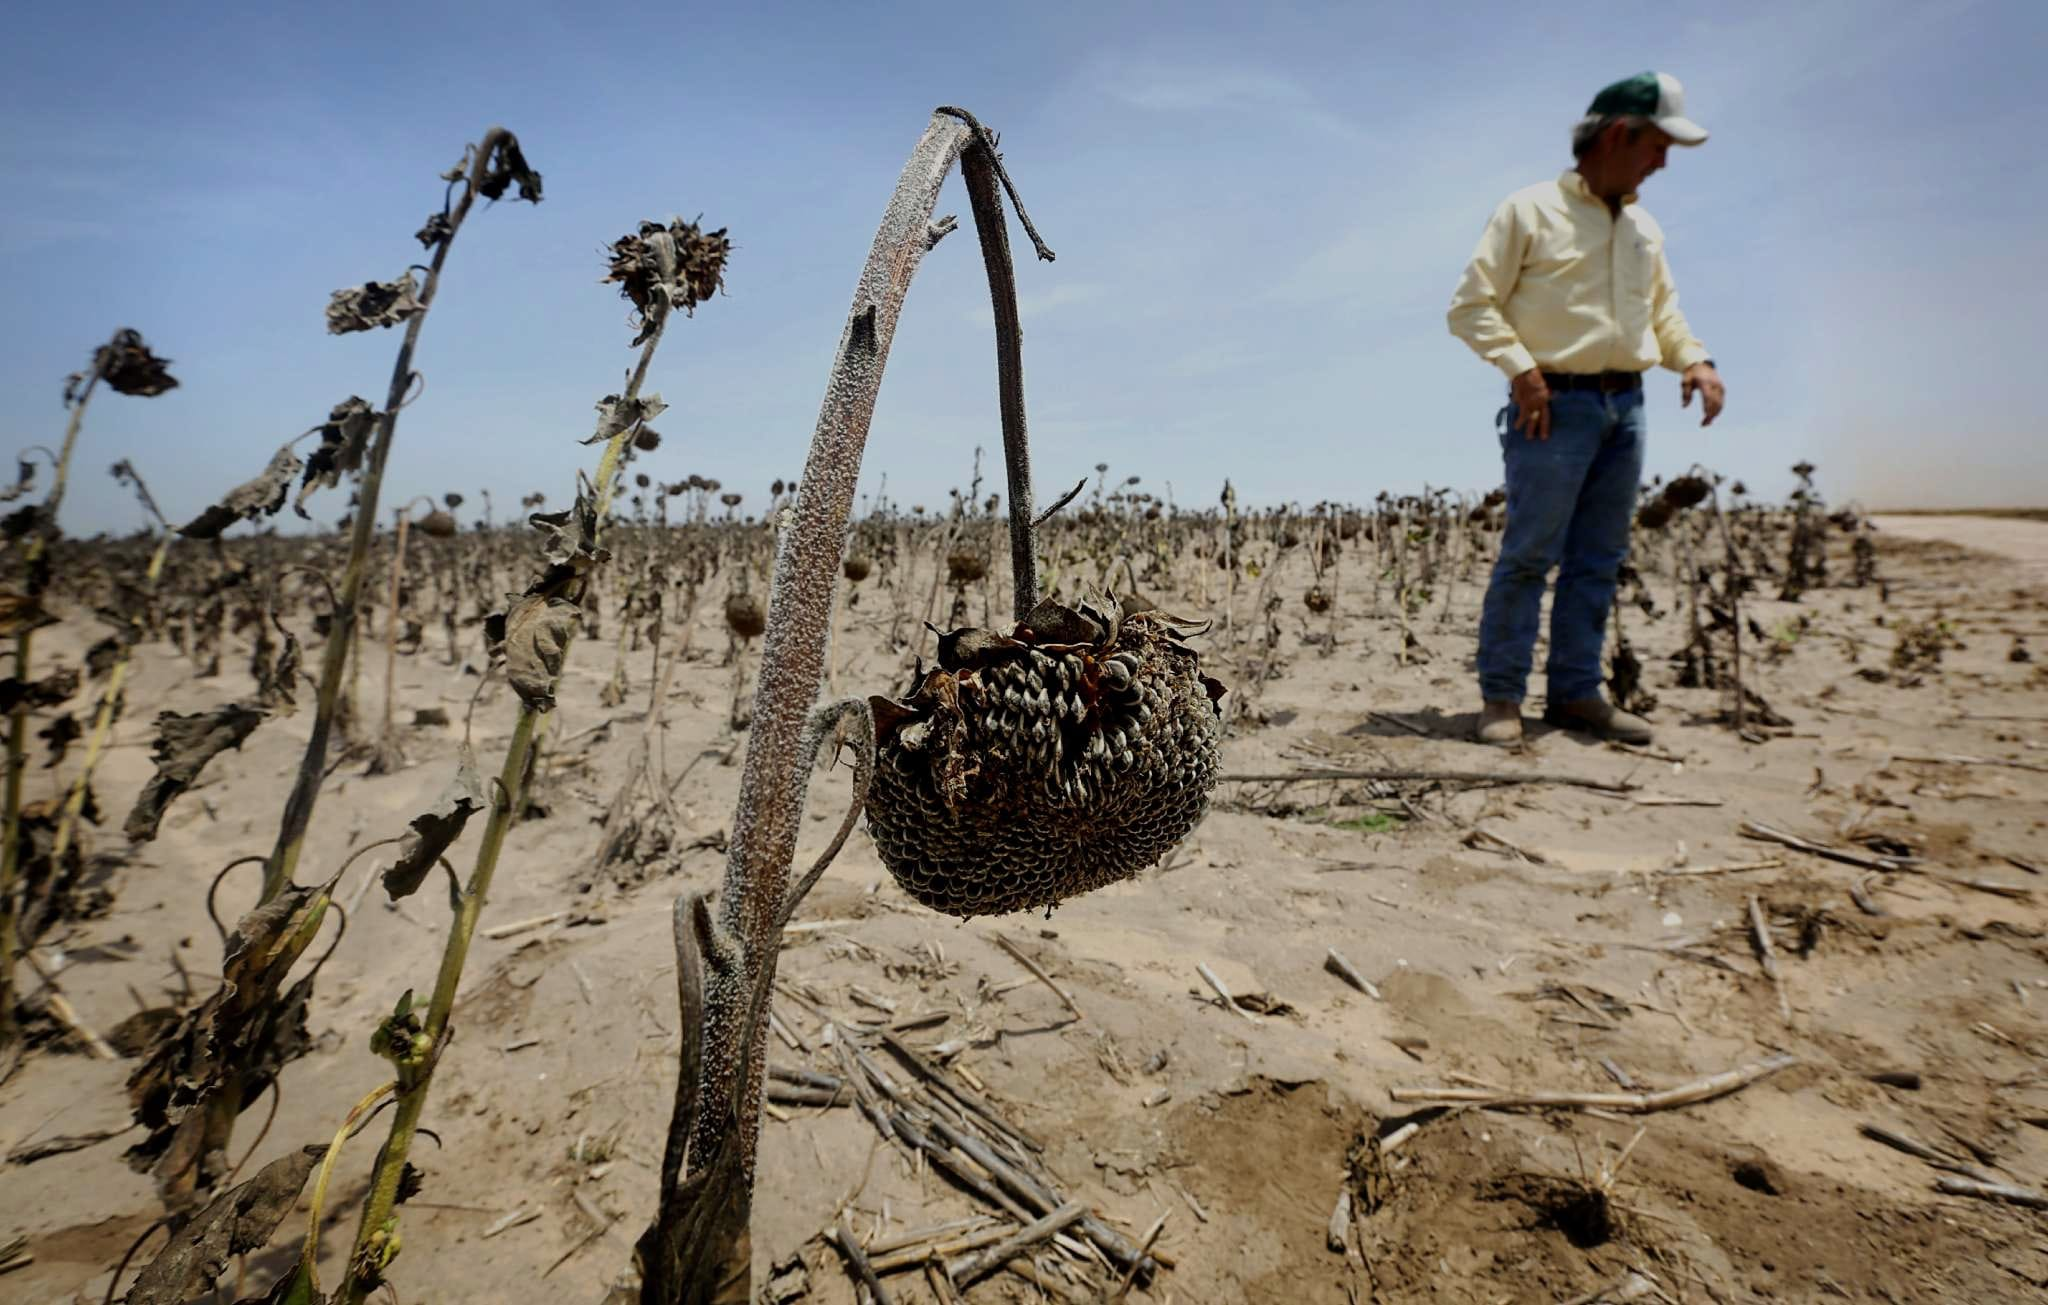
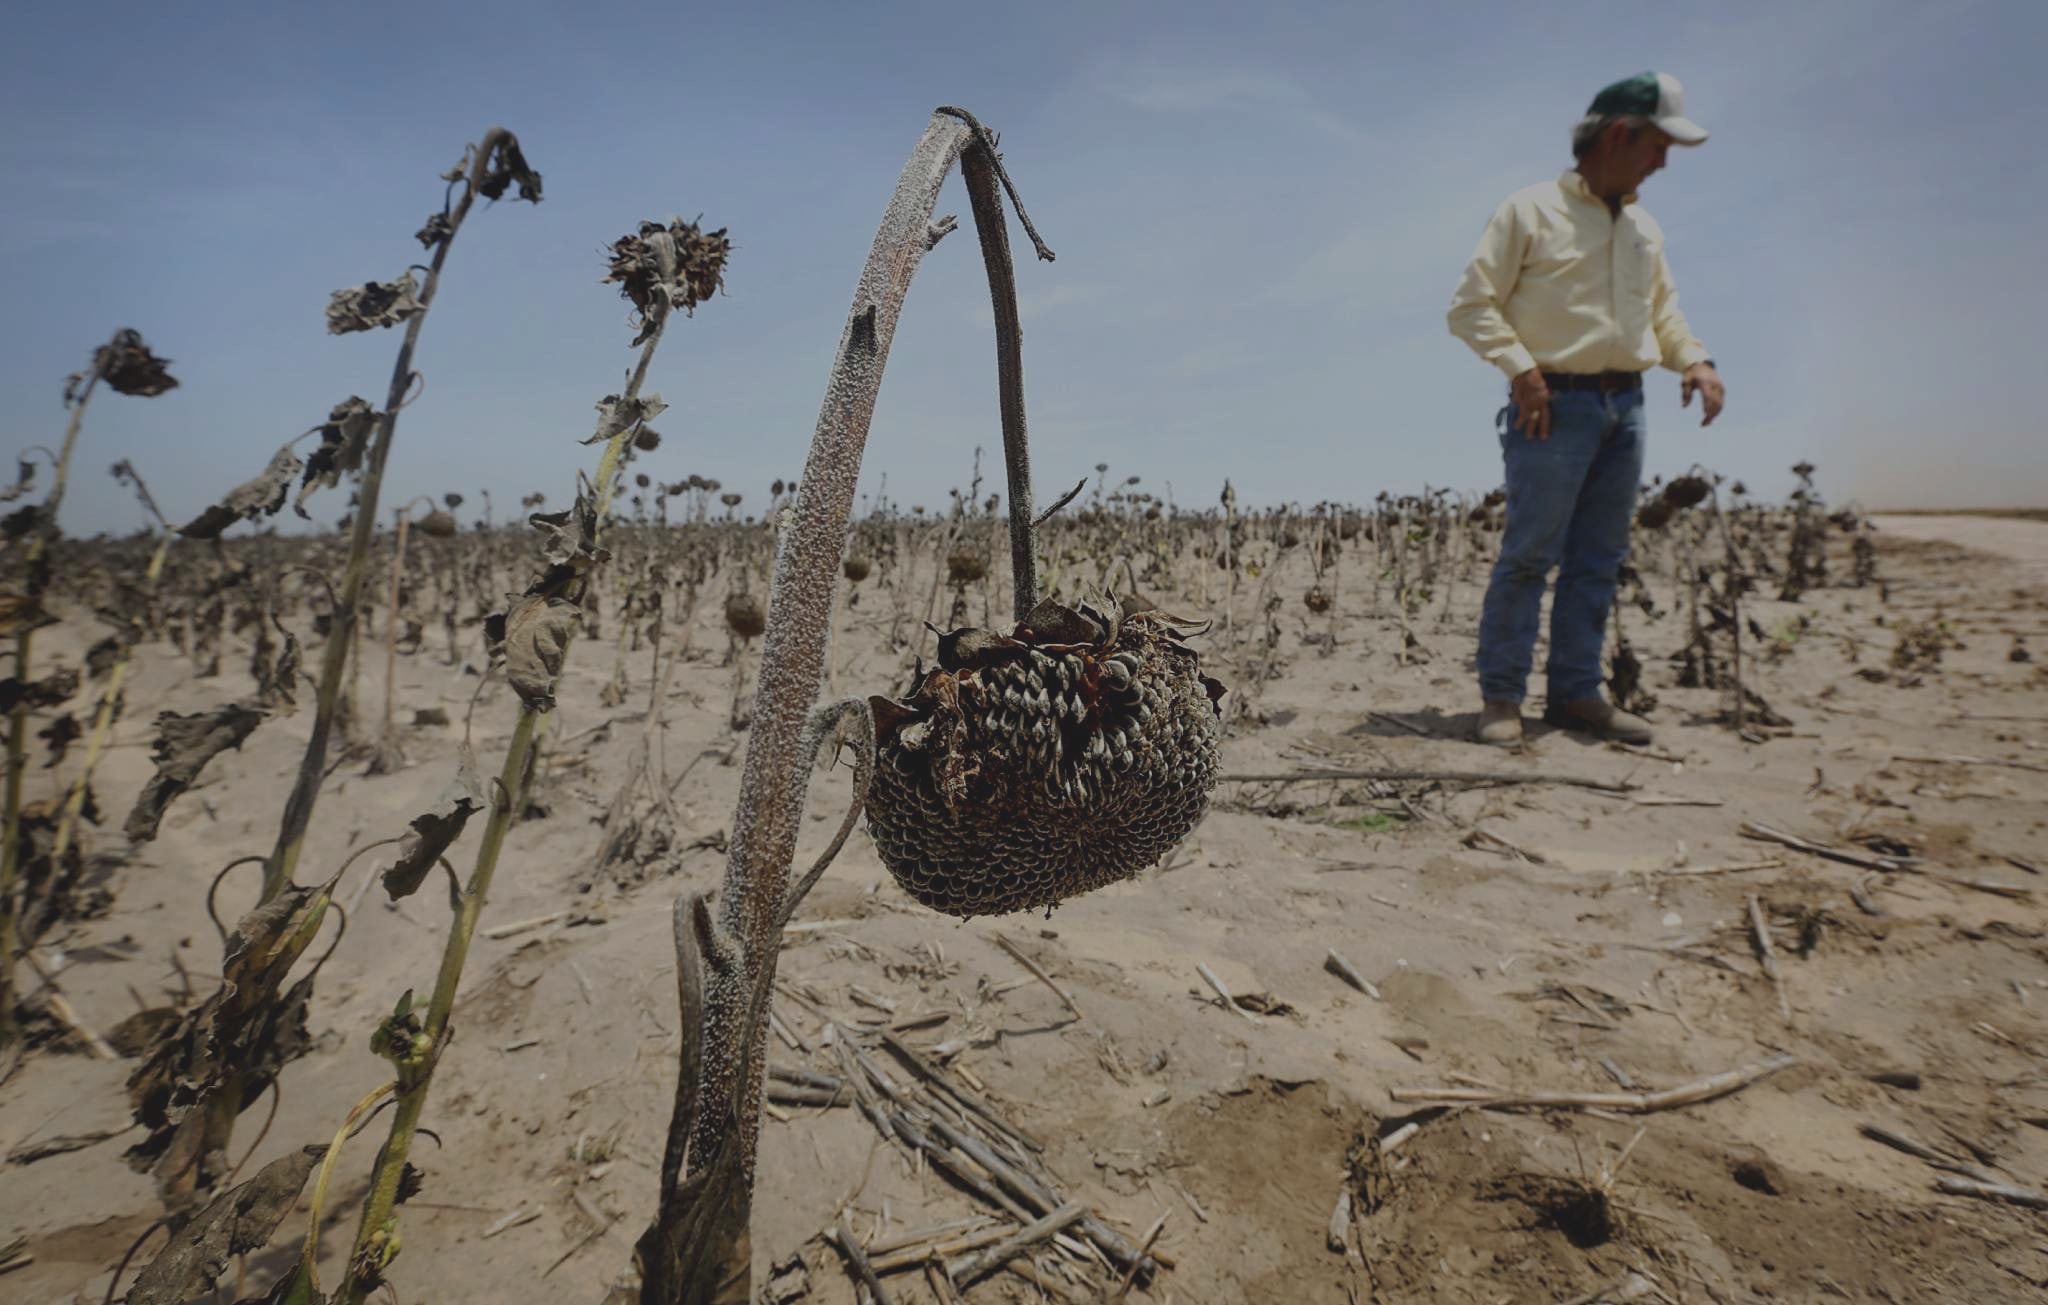
Text changes and made the images a little darker so easier to read

diff --git a/index.html b/index.html
@@ -54,7 +54,7 @@
           <div class="small-12 medium-7 columns">
             <h1>Launching startups that sustainably solve the global climate change crisis by 2030</h1>
             <hr />
-            <h2>Laudato Si' Challenge</h2>
+            <h2>Laudato Si' Startup Challenge</h2>
             <h5 class="inspire">
               Inspired by <span>Pope Francis</span> to care for our common home
             </h5>
@@ -105,9 +105,9 @@
               <div class="label">Areas of Focus - <span>1</span> of 7</div>
               <h1>Energy</h1>
               <hr/>
-              <h4>Can you help transform our energy systems to stop the most severe consequences of climate change?</h4>
+              <h4>Transform our energy systems to stop the most severe consequences of climate change.</h4>
               <a href="#" class="goto-next-slide btn red">
-                <span>+</span>Yes, I'm on board
+                <span>+</span>I have a solution
               </a>
 
             </div>
@@ -124,9 +124,9 @@
               <div class="label">Areas of Focus - <span>2</span> of 7</div>
               <h1>Food</h1>
               <hr/>
-              <h4>Can you help reimagine our food systems to minimize their emissions and guarantee food security for all ?</h4>
+              <h4>Reimagine our food systems to minimize their emissions and guarantee food security for all.</h4>
               <a href="#" class="goto-next-slide btn red">
-                <span>+</span>Yes, I'm on board
+                <span>+</span>I have a solution
               </a>
             </div>
           </div>
@@ -142,9 +142,9 @@
               <div class="label">Areas of Focus - <span>3</span> of 7</div>
               <h1>Water</h1>
               <hr/>
-              <h4>Can you help increase the quantity and quality of freshwater to protect livelihoods?</h4>
+              <h4>Increase the quantity and quality of freshwater to protect livelihoods.</h4>
               <a href="#" class="goto-next-slide btn red">
-                <span>+</span>Yes, I'm on board
+                <span>+</span>I have a solution
               </a>
             </div>
           </div>
@@ -160,9 +160,9 @@
               <div class="label">Areas of Focus - <span>4</span> of 7</div>
               <h1>City</h1>
               <hr/>
-              <h4>Can you help reinvent our urban communities for carbon neutrality and resilience to climate change?</h4>
+              <h4>Reinvent our urban communities for carbon neutrality and resilience to climate change.</h4>
               <a href="#" class="goto-next-slide btn red">
-                <span>+</span>Yes, I'm on board
+                <span>+</span>I have a solution
               </a>
 
 
@@ -180,9 +180,9 @@
               <div class="label">Areas of Focus - <span>5</span> of 7</div>
               <h1>Human Potential</h1>
               <hr/>
-              <h4>Can you help minimize human suffering resulting from forced migration?</h4>
+              <h4>Minimize human suffering resulting from forced migration.</h4>
               <a href="#" class="goto-next-slide btn red">
-                <span>+</span>Yes, I'm on board
+                <span>+</span>I have a solution
               </a>
 
             </div>
@@ -199,9 +199,9 @@
               <div class="label">Areas of Focus - <span>6</span> of 7</div>
               <h1>Conservation</h1>
               <hr/>
-              <h4>Can you help protect the world’s most fragile ecosystems and maintain healthy and thriving ecosystems worldwide?</h4>
+              <h4>Protect the world’s most fragile ecosystems and maintain healthy and thriving ecosystems worldwide.</h4>
               <a href="#" class="goto-next-slide btn red">
-                <span>+</span>Yes, I'm on board
+                <span>+</span>I have a solution
               </a>
 
             </div>
@@ -218,9 +218,9 @@
               <div class="label">Areas of Focus - <span>7</span> of 7</div>
               <h1>Finance</h1>
               <hr/>
-              <h4>Can you help reshape our industries, business models, and finance to mobilize $10 trillion by 2030 in investments for a carbon-neutral global economy?</h4>
+              <h4>Reshape our industries, business models, and finance to mobilize $10 trillion by 2030 in investments for a carbon-neutral global economy.</h4>
               <a href="#" class="goto-next-slide btn red">
-                <span>+</span>Yes, I'm on board
+                <span>+</span>I have a solution
               </a>
 
             </div>
@@ -234,8 +234,8 @@
         <div class="row">
           <div class="small-12 medium-8 column">
             <!-- ADAM NEED TO  REWRITE THIS -->
-            <h3 class="map-intro">Companies selected for the Laudato Si' Challenge will be pushed beyond their limits to compete for multiple rounds of funding.</h3>
-            <h2>A glimpse of the journey</h2>
+            <h3 class="map-intro">Companies selected for the accelerator in Rome receive mentorship and equity funding over a two-month period. The accelerator will maximize your startup's potential across a wide array of disciplines--from user-acquisition to business development and investor pitches.</h3>
+            <h2>Process</h2>
           </div>
           <div class="small-12">
             <div class="svg-wrapper">
@@ -255,27 +255,30 @@
           <div class="small-12 medium-6 medium-offset-6">
             <div class="process-box">
               <div id="apply-box" class="active">
-                <h5>Application Opens</h5>
+                <h5>Application is Open</h5>
                 <p>
-                  Companies with an innovative solution are asked to apply for a chance to obtain $1M+ in investment and mentorship. Startups must be a registered legal entity to apply.
-                  <span class="deadline">Application Deadline: June 30, 2017</span>
+                  Companies with innovative and impactful solutions should apply now to receive mentorship and equity investment. Startups must have a registered legal entity to apply.
+                  <span class="deadline">Application Deadline: June 5, 2017</span>
                 </p>
                 <!-- <a href="#" target="_blank" class="btn blue"><span>+</span>Download 2017 challenge document</a> -->
               </div>
               <div id="mentor-box">
                 <h5>Mentor</h5>
-                <p>50 startups will be screened and selected for initial investment and be paired with a dedicated mentor. Mentors will work with startups as needed and provide support to help define your market strategy and scalability.</p>
+                <p>50 companies will initially receive mentorship to determine scalability and impactfulness. Ability to set and reach milestones will determine the 12 companies invited to Rome for the in-person
+accelerator.
+</p>
               </div>
               <div id="accelerator-box">
                 <h5>Accelerator</h5>
                 <p>
-                  12 startups, known as the Vatican 12 will recive an additional investment round and come to Rome for an in-person accelerator from July 13th to September 9th. Startups will spend time with industry leading mentors, coaches and organizations to refine their business model.
+                  While in Rome, you receive a $100k USD initial equity investment and we will maximize your startup's potential across a wide array of disciplines--from user-acquisition to business development and investor pitches.
                 </p>
               </div>
               <div id="pitch-box">
                 <h5>Demo Day</h5>
                 <p>
-                  The six finalist known as the Vatican six will stage a presentation in Vatican City demonstrating the impact, feasibility and profitability of its solution at Demo Day and each has an opportunity to secure further funding. The world will be watching.
+                  Companies stage a presentation at the Vatican demonstrating the impact, feasibility and profitability of its solution, with an opportunity to secure further funding from the select investors and influencers in attendance.
+
                 </p>
               </div>
 
@@ -296,9 +299,10 @@
                 Companies will provide participating startups expert advice and support on their business strategy, communications and marketing strategy. Top companies from silicon valley will be supporting the Startups.
               </p>
               <hr>
-              <h5>MENTORS &amp; JUDGES</h5>
+              <h5>MENTORS</h5>
               <p>
-                50+ mentors and judges will be working directly with startups. Mentors will come from silicon valley and all over the world. They will support teams in any way to help their success in the challenge and connect them with their entrepreneurial eco-system
+                Companies receive mentorship from tech-centric professors, entrepreneurs and investors to set and reach milestones. Experts in community leadership, business and environmental stewardship evaluate all of the applicants and select 12 startups which are the most transformative, impactful, scalable, sustainable, feasible and profitable. These 12 startups come to Rome for an in-person accelerator from July 13th to September 9th.
+
               </p>
             </div>
           </div>
@@ -313,13 +317,13 @@
         <div class="row">
           <div class="small-12 medium-10 medium-offset-1 column">
             <div class="quote">
-              "Human beings, while capable of the worst, are also capable of rising above themselves, choosing again what is good, and making a new start." - Laudato Si'
+              "All of us can cooperate…for the care of creation, each according to his or her own culture, experience, involvements, and talents." - Laudato Si'
             </div>
-            <h1>Are you ready to reimagine our common home?</h1>
-            <h5> Be one of 50 startups selected for seed funding and mentorship as part of the Laudato Si' Challenge.</h5>
+            <h1>Transform Crisis into Opportunity</h1>
+            <h5>Be one of 50 startups to receive mentorship and equity investment.</h5>
             <a class="btn red" href="https://www.f6s.com/vaticanaccelerator2017/apply"><span>+</span>Apply now</a>
             <p>
-              <span class="app-deadline">Application deadline: <b>June 30, 2017</b></span> <span class="divider">|</span> <span class="to-faq">See <a href="/faqs">FAQs</a> for more information.</span>
+              <span class="app-deadline">Application deadline: <b>June 5, 2017</b></span> <span class="divider">|</span> <span class="to-faq">See <a href="/faqs">FAQs</a> for more information.</span>
             </p>
             <div class="subscribe-box">
               <h5>Stay in touch for our latest updates</h5>

diff --git a/about.html b/about.html
@@ -65,9 +65,7 @@
             <div class="small-12 medium-6 column about">
               <h1>About the Challenge</h1>
               <p>
-                <span>The Laudato Si’ Startup Challenge</span>, inspired by Pope Francis, is a global initiative that supports early to mid-stage startups in developing breakthrough enterprise solutions to the world’s most urgent challenges. The challenge, a Right Now! initiative, is set by His Holiness Pope Francis and The Pontifical Council for Justice &amp; Peace, and the competition is open to applicants from all continents and faiths.<br/>
-
-                <span>The Laudato Si’ Startup Challenge</span> will forge a business model to demonstrate that business solutions can realign our relationships to accord with the planet, our only common home. Wherever there is a vulnerable ecosystem, there are vulnerable people; any service to mitigate the crisis involving our common home is also a service to the world’s most disadvantaged people. The inaugural challenge will be launched on May 5th, 2017, and aims to become a multi-year initiative to stimulate and develop innovative businesses through a rigorous and tested process.
+                <span>The Laudato Si’ Startup Challenge</span>, The Laudato Si’ Startup Challenge, inspired by Pope Francis, is a global initiative that supports early to mid-stage startups in developing breakthrough enterprise solutions to the world’s most urgent challenges. The initiative was announced May 5th at the Pontifical Academy of Sciences at the Vatican, and calls to action all startup companies—across all continents and faiths—who have solutions that can mitigate climate change.
               </p>
               <h5>MISSION</h5>
               <p> <span>The Laudato Si’ Startup Challenge</span> will unite humanity in common purpose and productive conversation, much like His Holiness Pope Francis’s “Revolution of Tenderness.” It will be a beacon of new business, inspiring a new generation of entrepreneurs to build for-profit, for-purpose companies that address humanity’s biggest challenges in ways that are beneficial to all.
